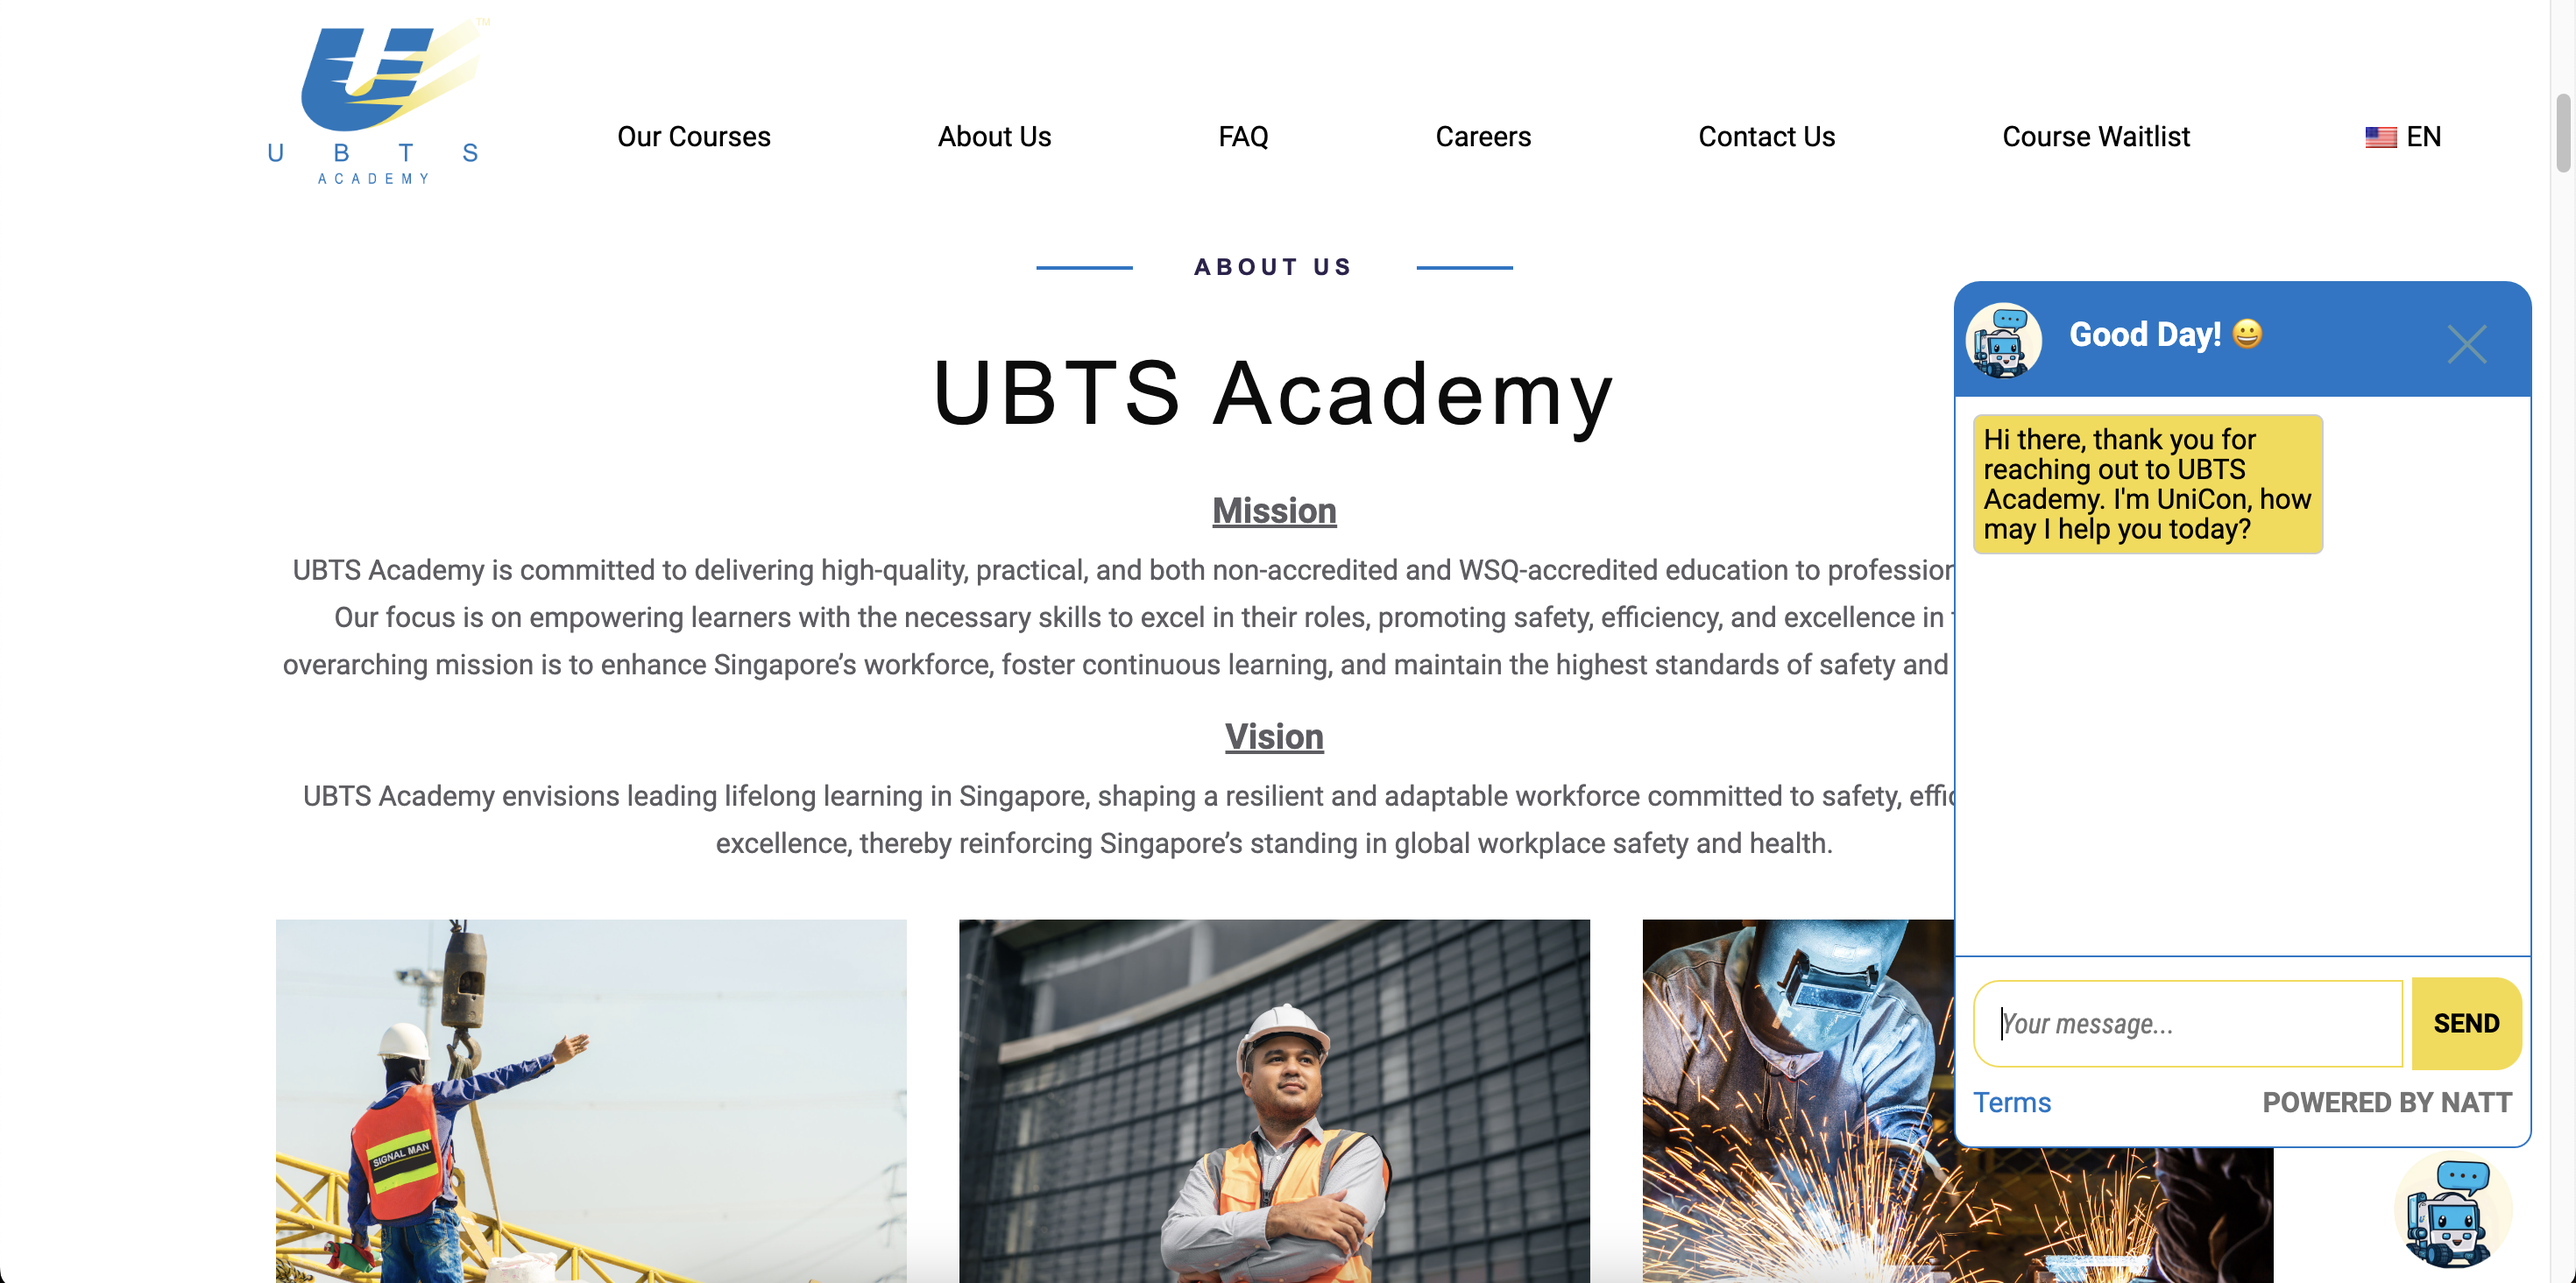
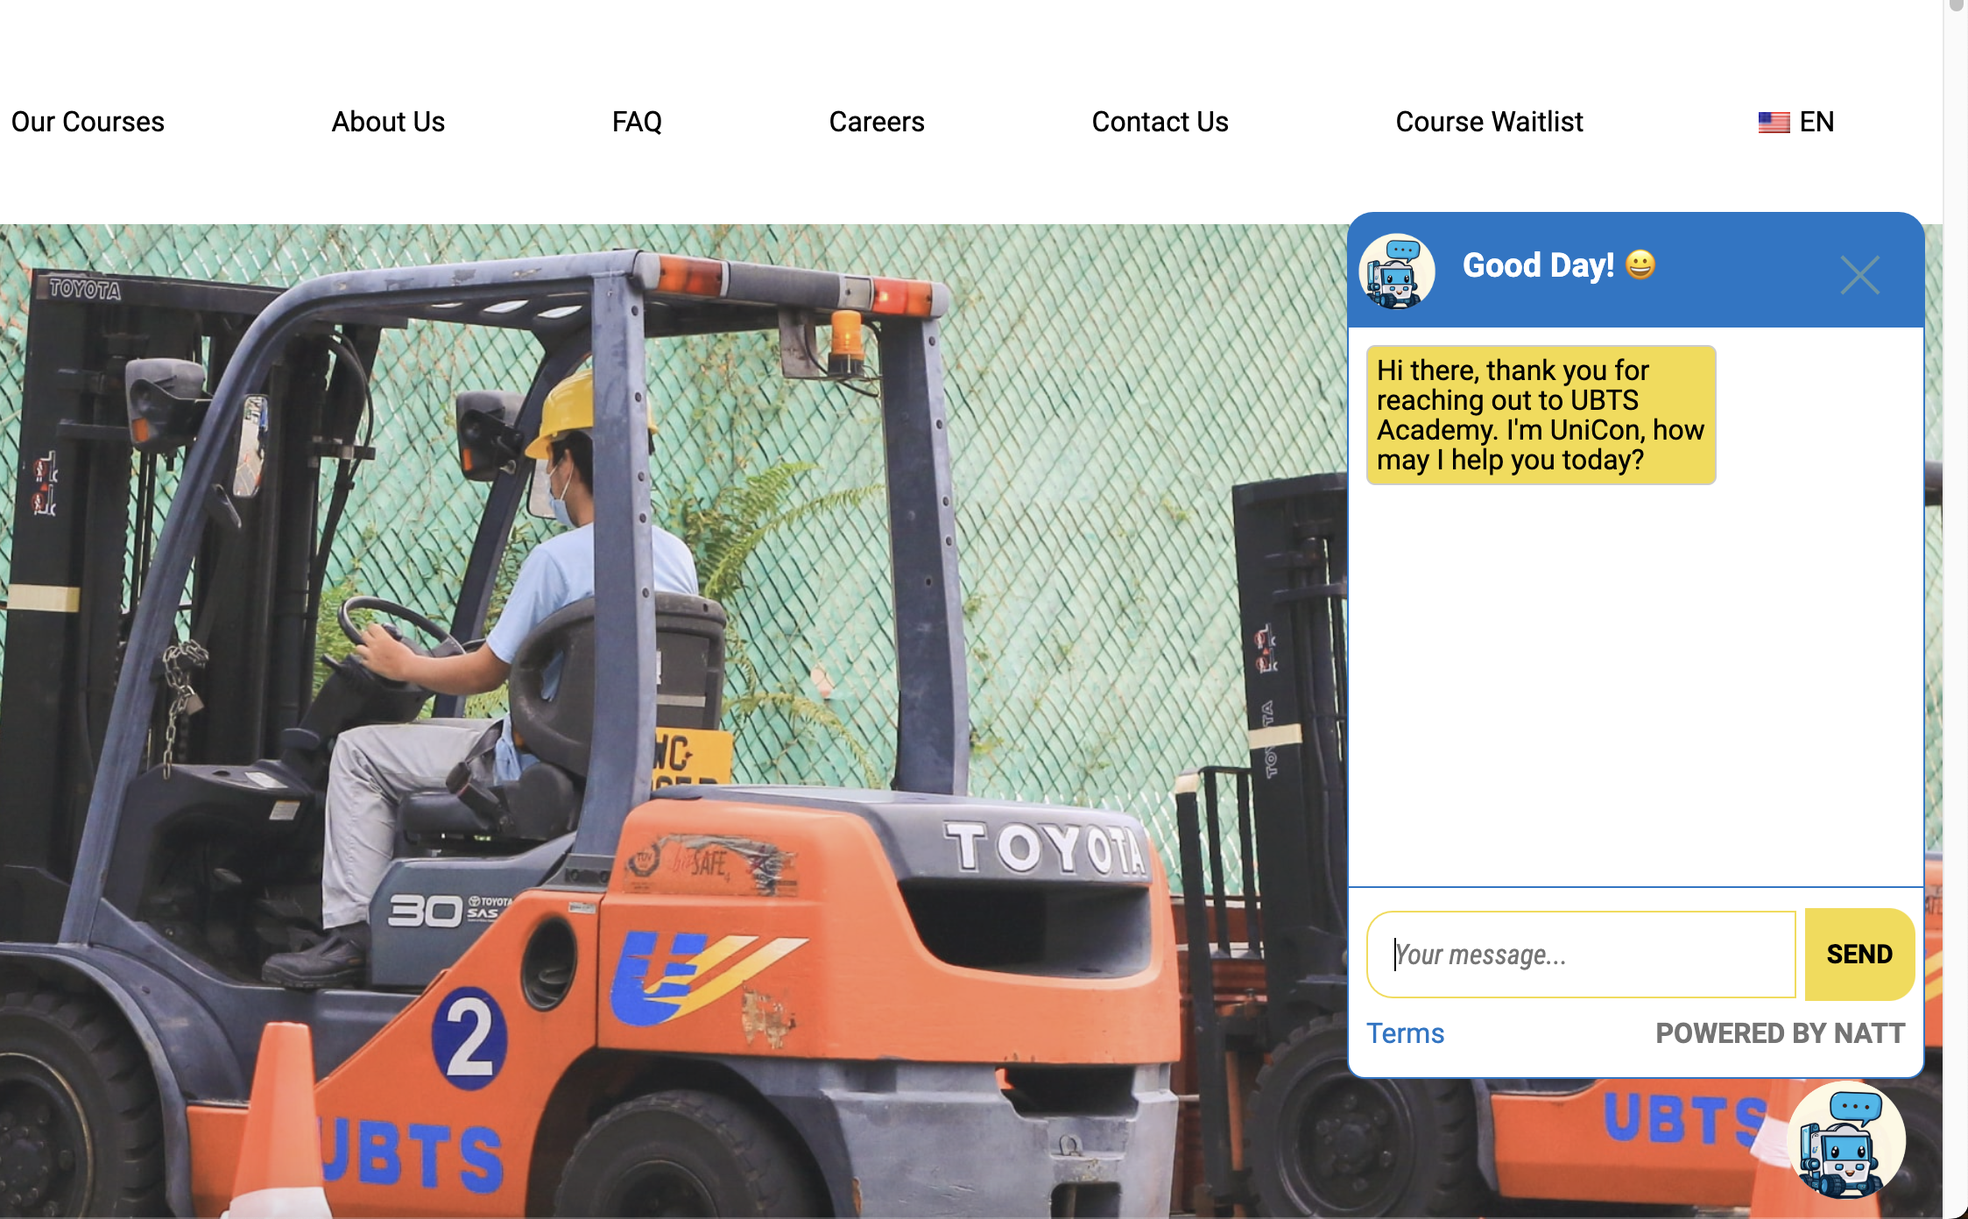
Improve CSS Styling

diff --git a/portfolio/Main/project.html b/portfolio/Main/project.html
@@ -20,7 +20,7 @@
                         <p>AI Chatbot</p>
                     </div>
                     <div class="project-info-description">
-                        <p>A chatbot with Meta's WitAI integration</p>
+                        <p>A chatbot with Natural Language Processing using Meta's WitAI integration</p>
                     </div>
                     <div class="project-info-extra">
                         <div class="project-info-extra-view">
@@ -34,18 +34,18 @@
 
             <div class="project-card">
                 <div class="project-img">
-                    <img src="styles/images/unicon.png" alt="project image">
+                    <img src="styles/images/stock-forecast.png" alt="project image">
                 </div>
                 <div class="project-info">
                     <div class="project-info-title">
-                        <p>AI Chatbot</p>
+                        <p>Stock Prediction</p>
                     </div>
                     <div class="project-info-description">
-                        <p>A chatbot with Meta's WitAI integration</p>
+                        <p>A webapp that predicts stock prices base on the popularity trend using AI / Model Training</p>
                     </div>
                     <div class="project-info-extra">
                         <div class="project-info-extra-view">
-                            <a href="https://ubts.academy/en/" target="_blank"></a>
+                            <a href="https://stock-server.netlify.app/" target="_blank"></a>
                             View Page
                         </div>
                         <div class="project-info-extra-more">More</div>

diff --git a/portfolio/Main/styles/project.css b/portfolio/Main/styles/project.css
@@ -111,6 +111,7 @@ a{
     margin:20px 50px;
     /* margin: 25px 0px; This is for mobile please adjust the media query for it*/
     border-radius: 20px;
+    box-shadow: 5px 5px 15px rgba(0,0,0,0.5), -5px -5px 15px rgba(0,0,0,0.5);
 
     overflow: hidden;
     
@@ -123,7 +124,7 @@ a{
     height:45%;
 
     position: relative;
-    background-color: white;
+    background-color: rgb(21, 21, 21);;
 
     box-sizing: border-box;
     /* border:1px solid red; */
@@ -134,7 +135,7 @@ a{
     height:100%;
 
     position: relative;
-    object-fit:contain;
+    object-fit:cover;
 
     box-sizing: border-box;
     /* border:1px solid red; */
@@ -166,9 +167,9 @@ a{
     /* border-bottom: 1px solid white; */
 }
 .project-info-title p{
-    font-size: 100%;
-    font-weight:lighter;
-    border-bottom: 1px solid white;
+    font-size: 110%;
+    font-weight:normal;
+    /* border-bottom: 1px solid white; */
     /* text-decoration: underline; */
 }
 
@@ -209,7 +210,7 @@ a{
     display: flex;
     justify-content: center;
     align-items: center;
-    background-color: rgba(255,255,255,10%);
+    background-color: rgba(70, 70, 70, 0.5);
 
     box-sizing: border-box;
     /* border:1px solid red; */

diff --git a/portfolio/Main/styles/about.css b/portfolio/Main/styles/about.css
@@ -71,7 +71,7 @@ a{
     display: flex;
     justify-content: center;
     align-items: center;
-
+    
     box-sizing: border-box;
     /* border: 1px solid green; */
 }
@@ -84,7 +84,8 @@ a{
 
     object-fit: cover;
     box-sizing: border-box;
-    border: 5px solid whitesmoke;
+    /* border: 2px solid rgb(0, 0, 0); */
+    box-shadow: 5px 5px 15px rgba(0,0,0,0.8), -5px -5px 15px rgba(0,0,0,0.8);
 }
 
 .about-content-paragraph{
